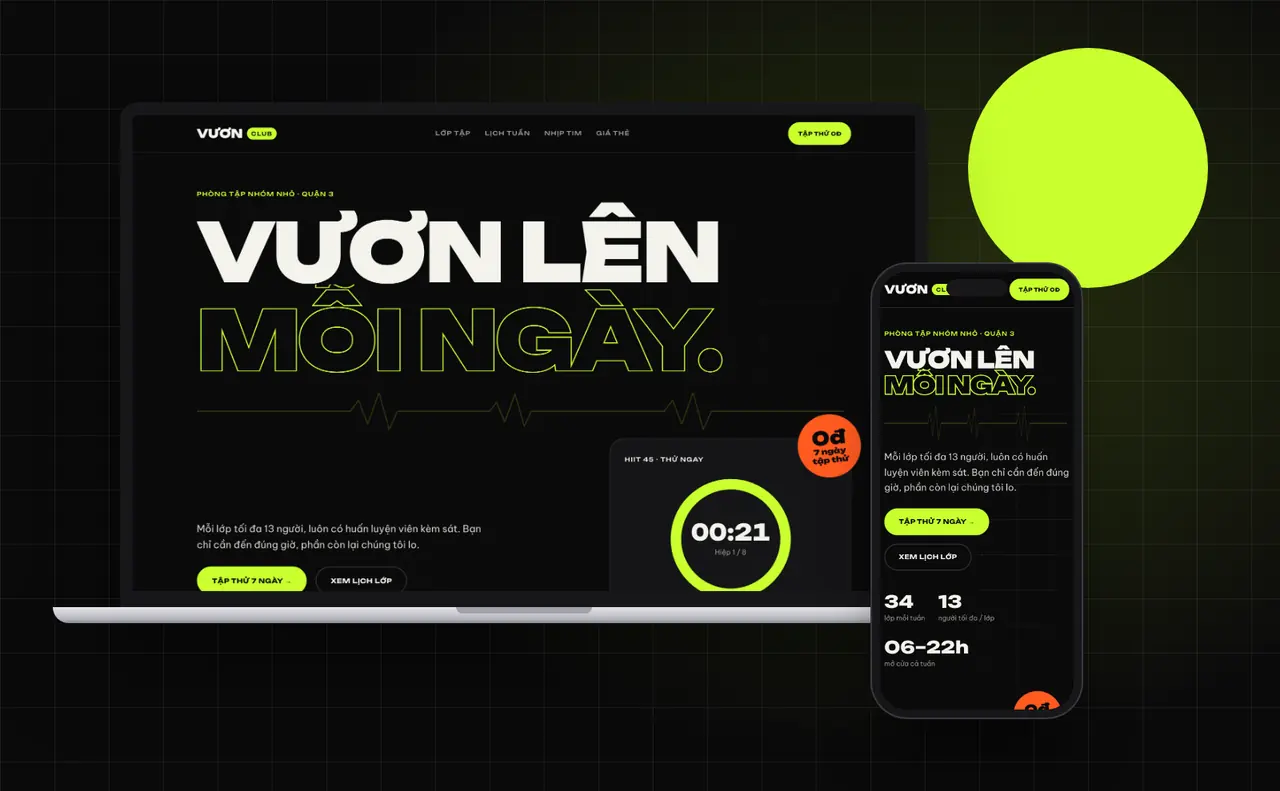
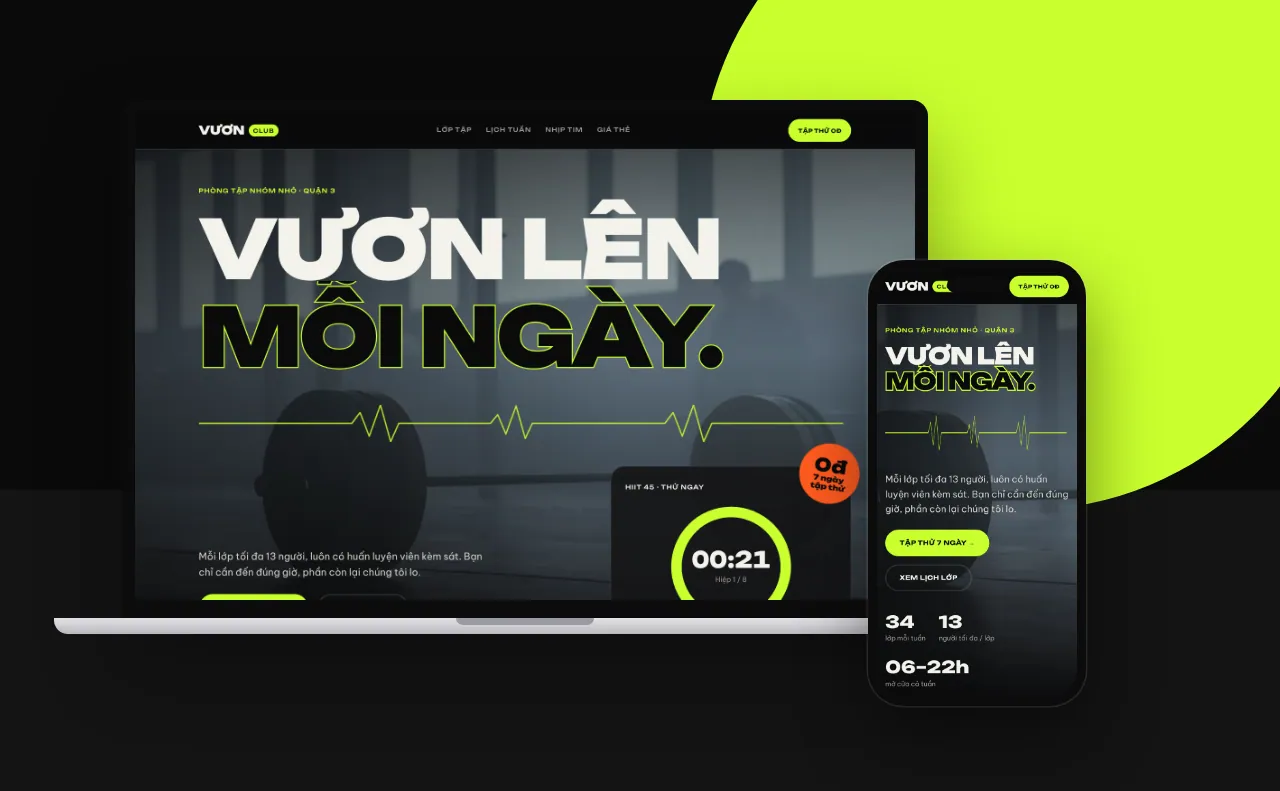
Landing VƯƠN Club: ảnh phòng tập thật, hero đập nhịp, cảnh ghim 7 ngày wipe chéo, dải ảnh khu tập
Claude-Session: https://claude.ai/code/session_012QLWn7rvRysGvRwdv6upwG

diff --git a/demos/vuon-club.html b/demos/vuon-club.html
@@ -39,12 +39,19 @@ header .btn{min-height:42px;padding:0 16px;font-size:10px}
 .hero{position:relative;padding:var(--s6) 0 var(--s6);overflow:hidden}
 .hero::before{content:"";position:absolute;inset:0;background-image:linear-gradient(var(--line) 1px,transparent 1px),linear-gradient(90deg,var(--line) 1px,transparent 1px);background-size:68px 68px;mask-image:radial-gradient(80% 80% at 70% 30%,#000 0,transparent 72%);-webkit-mask-image:radial-gradient(80% 80% at 70% 30%,#000 0,transparent 72%);opacity:.6}
 .hero .w{position:relative}
+.hbg{position:absolute;inset:0;overflow:hidden}
+.hbg div{position:absolute;inset:-4%}
+.hbg img{width:100%;height:100%;object-fit:cover;object-position:50% 30%;animation:kb 21s cubic-bezier(.16,1,.3,1) both}
+@keyframes kb{from{transform:scale(1.16)}}
+.hbg::after{content:"";position:absolute;inset:0;background:linear-gradient(180deg,rgba(10,10,11,.66),rgba(10,10,11,.14) 36%,rgba(10,10,11,.3) 56%,var(--bk) 97%),linear-gradient(90deg,rgba(10,10,11,.55),transparent 62%)}
+.sl{position:absolute;z-index:1;inset:-20% auto -20% 0;width:21%;background:var(--lime);transform:translateX(-160%) skewX(-21deg);animation:sl var(--d5) .16s cubic-bezier(.7,0,.2,1) both}
+@keyframes sl{to{transform:translateX(640%) skewX(-21deg)}}
 .hero h1{font-weight:900;font-size:clamp(40px,11.6vw,150px);line-height:1.08;letter-spacing:-.04em}
 .hero h1 span{display:block;overflow:hidden;padding-top:.14em;margin-top:-.14em}
-.hero h1 i{display:block;font-style:normal;animation:up var(--d5) var(--ease) both}
-.hero h1 span:nth-child(2) i{animation-delay:.1s;color:var(--bk);-webkit-text-stroke:4px var(--lime);paint-order:stroke fill}
-@keyframes up{from{transform:translateY(110%)}}
-.pulse{width:100%;height:68px;margin:var(--s3) 0}
+.hero h1 i{display:block;font-style:normal;transform-origin:0 100%;animation:up var(--d4) .26s var(--ease) both}
+.hero h1 span:nth-child(2) i{animation-delay:.47s;color:var(--bk);-webkit-text-stroke:4px var(--lime);paint-order:stroke fill}
+@keyframes up{from{transform:translateY(112%) scale(1.2)}}
+.pulse{width:100%;height:68px;margin:clamp(26px,5vh,60px) 0}
 .pulse path{fill:none;stroke:var(--lime);stroke-width:2.5;stroke-linejoin:round;stroke-dasharray:1;stroke-dashoffset:1;animation:pl 2.62s linear infinite}
 @keyframes pl{0%{stroke-dashoffset:1}61.8%{stroke-dashoffset:0;opacity:1}100%{stroke-dashoffset:0;opacity:0}}
 .hg{display:grid;grid-template-columns:1.618fr 1fr;gap:var(--s5);align-items:end}
@@ -53,7 +60,7 @@ header .btn{min-height:42px;padding:0 16px;font-size:10px}
 .stats{display:flex;gap:var(--s5);margin-top:var(--s5);flex-wrap:wrap}
 .stats b{font-family:var(--fd);font-weight:800;font-size:33px;line-height:1.1;display:block}.stats span{font-size:13px;color:var(--mid)}
 /* timer */
-.timer{background:var(--g1);border:1px solid var(--line);border-radius:var(--s4);padding:var(--s4);position:relative}
+.timer{background:rgba(21,21,23,.9);border:1px solid var(--line);border-radius:var(--s4);padding:var(--s4);position:relative}
 .timer .top{display:flex;justify-content:space-between;align-items:center;margin-bottom:var(--s3)}
 .ph{padding:4px 12px;border-radius:99px;background:var(--lime);color:var(--bk);transition:background var(--d2)}
 .timer.rest .ph{background:var(--hot)}
@@ -71,13 +78,65 @@ header .btn{min-height:42px;padding:0 16px;font-size:10px}
 .badge{position:absolute;right:-16px;top:-42px;width:110px;height:110px;border-radius:50%;background:var(--hot);color:var(--bk);display:grid;place-content:center;text-align:center;font-family:var(--fd);font-weight:900;font-size:13px;line-height:1.15;transform:rotate(12deg);animation:wob 2.62s ease-in-out infinite alternate}
 .badge b{font-size:33px;display:block;line-height:1}
 @keyframes wob{to{transform:rotate(-6deg) scale(1.06)}}
-@media(max-width:900px){.hero{padding-top:var(--s5)}.hg{grid-template-columns:1fr}.badge{right:16px;top:-68px;width:89px;height:89px;font-size:10px}.badge b{font-size:26px}.timer{margin-top:var(--s6)}.stats{gap:var(--s4)}}
+@media(max-width:900px){.hero{padding-top:var(--s5)}.hg{grid-template-columns:1fr}.badge{right:16px;top:-68px;width:89px;height:89px;font-size:10px}.badge b{font-size:26px}.timer{margin-top:var(--s6)}.stats{gap:var(--s4)}.hbg{bottom:auto;height:min(100%,96vh)}.hbg div{top:-34%}.hbg img{object-position:34% 30%}}
 /* băng chạy */
 .bw{overflow:hidden;padding:var(--s4) 0}
 .band{background:var(--lime);color:var(--bk);overflow:hidden;white-space:nowrap;transform:rotate(-1.6deg) scale(1.03);padding:14px 0}
 .band div{display:inline-block;font-family:var(--fd);font-weight:900;font-size:clamp(20px,3vw,42px);text-transform:uppercase;animation:mq 26s linear infinite}
 .band span{margin:0 16px}
 @keyframes mq{to{transform:translateX(-50%)}}
+/* 7 ngày */
+.d7{padding:var(--s7) 0}
+.d7 .k{color:var(--lime)}
+.dg{display:grid;gap:var(--s5)}
+.dn{display:flex;align-items:baseline;gap:12px;font-family:var(--fd);margin:var(--s3) 0 var(--s2)}
+.dn span{font-weight:500;font-size:11px;letter-spacing:.1em;text-transform:uppercase;color:var(--mid)}
+.dn b{display:inline-block;font-weight:900;font-size:clamp(89px,13vw,178px);line-height:.92;letter-spacing:-.05em;color:var(--lime);font-variant-numeric:tabular-nums;transform-origin:0 100%}
+.dn i{font-style:normal;font-weight:500;font-size:clamp(16px,2vw,26px);color:var(--mid)}
+.bt{animation:bt var(--d3) var(--ease)}
+@keyframes bt{from{transform:scale(1.24) skewX(-9deg)}}
+.d7 h2{font-size:clamp(24px,3.4vw,46px)}.d7 h2 em{font-style:normal;color:var(--lime)}
+.dp{display:grid;grid-template-columns:repeat(7,1fr);gap:6px;max-width:424px;margin:var(--s4) 0 var(--s3)}
+.dp i{height:6px;border-radius:6px;background:var(--g2);overflow:hidden}
+.dp b{display:block;height:100%;background:var(--lime);transform-origin:0 50%}
+.nt{color:var(--mid);font-size:14px;max-width:40ch;margin-bottom:var(--s4)}
+.df{display:grid;grid-template-columns:repeat(4,1fr);gap:var(--s3)}
+.df figure,.rl figure{margin:0;position:relative;overflow:hidden;border-radius:var(--s3);background:var(--g1)}
+.df figure{aspect-ratio:3/4}
+.df img{position:absolute;inset:0;width:100%;height:100%;object-fit:cover}
+.df figcaption{position:absolute;inset:auto 0 0;padding:var(--s6) var(--s3) var(--s3);background:linear-gradient(transparent,rgba(10,10,11,.9));display:grid;gap:4px}
+.df figcaption b{font-family:var(--fd);font-weight:800;font-size:18px;line-height:1.1;text-transform:uppercase}
+.df small{font-size:13px;color:#d0d0c8;line-height:1.45}
+.ws{display:none}
+.mo .d7{height:330vh;height:330svh;padding:0}
+.mo .st{position:sticky;top:68px;height:calc(100vh - 68px);height:calc(100svh - 68px);overflow:hidden;display:flex;align-items:center}
+.mo .dg{grid-template-columns:1fr 1.272fr;gap:var(--s6);align-items:center}
+.mo .df{display:block;position:relative;height:min(76vh,720px);border-radius:var(--s4);overflow:hidden}
+.mo .df figure{position:absolute;inset:0;aspect-ratio:auto;border-radius:0}
+.mo .df img{will-change:transform}
+.mo .df figcaption{padding:var(--s7) var(--s4) var(--s4)}
+.mo .df figcaption b{font-size:clamp(24px,3.2vw,44px)}.mo .df small{font-size:15px}
+.mo .ws{display:block;position:absolute;inset:0;background:var(--lime);opacity:0;pointer-events:none}
+@media(max-width:860px){.d7{padding:var(--s6) 0}.df{grid-template-columns:1fr 1fr}.df figure{aspect-ratio:2/3}
+ .mo .st{align-items:flex-start;padding:var(--s3) 0 0}.mo .dg{grid-template-columns:1fr;gap:var(--s3)}.mo .df{order:-1;height:40vh;height:40svh}
+ .mo .dn{margin:0}.mo .dn b{font-size:76px}.mo .dp{margin:var(--s3) 0 var(--s2)}.mo .nt{margin-bottom:var(--s3)}.mo .d7 .btn{min-height:46px}}
+@media(max-width:860px) and (max-height:660px){.mo .nt{display:none}.mo .df{height:36vh}}
+/* khu tập */
+.rl{display:flex;gap:var(--s3);overflow-x:auto;scroll-snap-type:x mandatory;padding:0 max(16px,4vw);scroll-padding:0 max(16px,4vw);scrollbar-width:none;-webkit-overflow-scrolling:touch}
+.rl::-webkit-scrollbar{display:none}
+.rl.dr{scroll-snap-type:none;cursor:grabbing}
+.rl figure{flex:none;height:clamp(300px,56vh,520px);aspect-ratio:2/3;scroll-snap-align:start}
+.rl figure.l{aspect-ratio:3/2;max-width:86vw}
+.rl img{position:absolute;top:0;left:-8%;width:116%;max-width:none;height:100%;object-fit:cover;-webkit-user-drag:none;user-select:none}
+.rl figcaption{position:absolute;inset:auto 0 0;padding:var(--s6) var(--s3) var(--s3);background:linear-gradient(transparent,rgba(10,10,11,.86));display:flex;align-items:baseline;gap:10px;font-family:var(--fd);font-weight:700;font-size:15px;text-transform:uppercase}
+.rl figcaption span{color:var(--lime);font-weight:500;font-size:11px}
+.mo .rl figure{clip-path:polygon(0 0,0 0,-34% 100%,0 100%);transition:clip-path var(--d5) var(--ease);transition-delay:calc(var(--i)*110ms)}
+.mo .rl.in figure{clip-path:polygon(0 0,134% 0,100% 100%,0 100%)}
+.rc{display:flex;align-items:center;gap:var(--s3);margin-top:var(--s4)}
+.rp{flex:1;height:2px;background:var(--line);overflow:hidden}.rp i{display:block;height:100%;background:var(--lime);transform:scaleX(.2);transform-origin:0 50%}
+.rc .k{color:var(--mid);font-variant-numeric:tabular-nums}
+.rc button{width:48px;height:48px;border-radius:50%;border:1px solid var(--line);background:none;font-size:18px;transition:background var(--d2),color var(--d2),border-color var(--d2)}
+.rc button:hover{background:var(--lime);color:var(--bk);border-color:var(--lime)}
 .sec{padding:var(--s7) 0}
 .sh{display:grid;grid-template-columns:1.618fr 1fr;gap:var(--s5);align-items:end;margin-bottom:var(--s6)}
 .sh h2{font-size:clamp(28px,5.2vw,68px)}.sh h2 em{font-style:normal;color:var(--lime)}.sh p{color:var(--mid)}
@@ -157,7 +216,7 @@ footer{padding:var(--s6) 0 var(--s7);overflow:hidden}
 .fr{display:flex;flex-wrap:wrap;gap:16px 42px;justify-content:space-between;font-size:13px;color:var(--mid);border-top:1px solid var(--line);padding-top:16px}
 .back{position:fixed;left:16px;bottom:16px;z-index:40;background:var(--ink);color:var(--bk);border-radius:99px;padding:0 16px;min-height:42px;display:flex;align-items:center;gap:8px;font-family:var(--fd);font-weight:600;font-size:10px;letter-spacing:.04em}
 .emb .back{display:none}
-@media(prefers-reduced-motion:reduce){*,*::before,*::after{animation:none!important;transition-duration:.01ms!important}.js [data-r]{opacity:1;transform:none}.pulse path{stroke-dashoffset:0}}
+@media(prefers-reduced-motion:reduce){*,*::before,*::after{animation:none!important;transition-duration:.01ms!important}.js [data-r]{opacity:1;transform:none}.pulse path{stroke-dashoffset:0}.sl{display:none}}
 </style>
 </head>
 <body>
@@ -168,7 +227,7 @@ footer{padding:var(--s6) 0 var(--s7);overflow:hidden}
 </div></header>
 
 <main id="top">
-<section class="hero"><div class="w">
+<section class="hero"><div class="hbg"><div id="hp"><img src="../img/photo/phong-tap-6389516.webp" width="2400" height="1600" alt="Thanh tạ đòn nằm trên sàn phòng tập mờ sương, sau lưng là dãy cửa sổ lớn" fetchpriority="high" decoding="async"></div><i class="sl"></i></div><div class="w">
  <p class="k" style="color:var(--lime);margin-bottom:16px">Phòng tập nhóm nhỏ · Quận 3</p>
  <h1><span><i>Vươn lên</i></span><span><i>mỗi ngày.</i></span></h1>
  <svg class="pulse" viewBox="0 0 1280 68" preserveAspectRatio="none" aria-hidden="true"><path pathLength="1" d="M0 34h300l16-20 18 44 22-58 20 68 16-34h180l14-16 16 36 20-52 18 60 14-28h260l16-20 18 44 22-58 20 68 16-34h258"/></svg>
@@ -176,7 +235,7 @@ footer{padding:var(--s6) 0 var(--s7);overflow:hidden}
   <div>
    <p class="l">Mỗi lớp tối đa 13 người, luôn có huấn luyện viên kèm sát. Bạn chỉ cần đến đúng giờ, phần còn lại chúng tôi lo.</p>
    <div class="cta"><a class="btn" href="#tap-thu">Tập thử 7 ngày →</a><a class="btn o" href="#lich">Xem lịch lớp</a></div>
-   <div class="stats"><div><b>34</b><span>lớp mỗi tuần</span></div><div><b>13</b><span>người tối đa / lớp</span></div><div><b>06–22h</b><span>mở cửa cả tuần</span></div></div>
+   <div class="stats"><div><b data-n>34</b><span>lớp mỗi tuần</span></div><div><b data-n>13</b><span>người tối đa / lớp</span></div><div><b>06–22h</b><span>mở cửa cả tuần</span></div></div>
   </div>
   <div class="timer" id="tm" aria-label="Đồng hồ tập ngắt quãng">
    <div class="badge"><b>0đ</b>7 ngày<br>tập thử</div>
@@ -189,10 +248,40 @@ footer{padding:var(--s6) 0 var(--s7);overflow:hidden}
 
 <div class="bw"><div class="band" aria-hidden="true"><div><span>HIIT 45</span><span>✕</span><span>Sức mạnh</span><span>✕</span><span>Yoga Flow</span><span>✕</span><span>Boxing</span><span>✕</span><span>Không hợp đồng dài</span><span>✕</span><span>HIIT 45</span><span>✕</span><span>Sức mạnh</span><span>✕</span><span>Yoga Flow</span><span>✕</span><span>Boxing</span><span>✕</span><span>Không hợp đồng dài</span><span>✕</span></div></div></div>
 
+<section class="d7" id="bay-ngay" aria-label="Bảy ngày tập thử"><div class="st"><div class="w dg">
+ <div class="dl">
+  <p class="k">Tập thử 0đ · thử đủ bốn kiểu lớp</p>
+  <div class="dn" aria-hidden="true"><span>Ngày</span><b id="dn">07</b><i>/ 07</i></div>
+  <h2>7 ngày để<br><em>bắt đúng nhịp.</em></h2>
+  <div class="dp" aria-hidden="true"><i><b></b></i><i><b></b></i><i><b></b></i><i><b></b></i><i><b></b></i><i><b></b></i><i><b></b></i></div>
+  <p class="nt">Thứ tự chỉ là gợi ý. Trong 7 ngày tập thử, bạn vào lớp nào cũng được.</p>
+  <a class="btn" href="#tap-thu">Giữ chỗ tập thử →</a>
+ </div>
+ <div class="df" id="df">
+  <figure><img src="../img/photo/phong-tap-6389503.webp" width="1400" height="2100" alt="Người tập đạp xe sức bền giữa phòng tập khung thép, ánh sáng mờ sương" loading="lazy" decoding="async"><figcaption><span class="k">Ngày 1–2</span><b>HIIT 45</b><small>Chạy, nhảy, tạ nhẹ theo hiệp ngắn.</small></figcaption></figure>
+  <figure><img src="../img/photo/phong-tap-6389892.webp" width="1400" height="2100" alt="Kệ bóng tạ, tạ tay và bánh tạ xếp sát tường gạch cạnh cửa sổ" loading="lazy" decoding="async"><figcaption><span class="k">Ngày 3–4</span><b>Sức mạnh</b><small>Squat, deadlift, đẩy ngực với tạ đòn.</small></figcaption></figure>
+  <figure><img src="../img/photo/phong-tap-6958065.webp" width="1400" height="2100" alt="Người tập nằm chống tay trên thảm yoga, chụp từ phía sau" loading="lazy" decoding="async"><figcaption><span class="k">Ngày 5</span><b>Yoga Flow</b><small>Giãn cơ, hồi phục sau ngày dài.</small></figcaption></figure>
+  <figure><img src="../img/photo/phong-tap-4753999.webp" width="1400" height="1844" alt="Bao cát treo bằng xích dưới ánh đèn tuýp trong góc boxing" loading="lazy" decoding="async"><figcaption><span class="k">Ngày 6–7</span><b>Boxing</b><small>Đấm bao, di chuyển, phản xạ theo cặp.</small></figcaption></figure>
+  <i class="ws"></i>
+ </div>
+</div></div></section>
+
 <section class="sec" id="lop"><div class="w">
  <div class="sh"><div><p class="k">Bốn kiểu lớp</p><h2 data-r>Chọn lớp theo<br><em>mức năng lượng.</em></h2></div><p data-r>Mới bắt đầu hay tập lâu năm đều có chỗ. Huấn luyện viên chỉnh bài theo thể lực từng người.</p></div>
  <div class="cl" id="cl"></div>
 </div></section>
+
+<section class="sec" id="khu-tap" style="padding-top:0">
+ <div class="w"><div class="sh"><div><p class="k">Không gian tập</p><h2 data-r>Xem trước<br><em>chỗ bạn tập.</em></h2></div><p data-r>Vuốt ngang để xem từng khu. Hai phòng tập nhóm, khu tạ và phòng thay đồ nằm chung một tầng.</p></div></div>
+ <div class="rl" id="rl" tabindex="0" aria-label="Ảnh các khu tập, vuốt ngang để xem thêm">
+  <figure class="l" style="--i:0"><img src="../img/photo/phong-tap-6390225.webp" width="1000" height="667" alt="Phòng tập nhóm rộng với xà treo, vòng treo và bóng tập trước cửa sổ lớn" loading="lazy" decoding="async" draggable="false"><figcaption><span>01</span>Sàn tập nhóm</figcaption></figure>
+  <figure style="--i:1"><img src="../img/photo/phong-tap-6389891.webp" width="760" height="1140" alt="Bánh tạ đòn trên sàn cao su trong làn sương mờ" loading="lazy" decoding="async" draggable="false"><figcaption><span>02</span>Khu tạ đòn</figcaption></figure>
+  <figure style="--i:2"><img src="../img/photo/phong-tap-6389856.webp" width="760" height="1140" alt="Bó thanh đòn dựng đứng trong giá cạnh khung tập" loading="lazy" decoding="async" draggable="false"><figcaption><span>03</span>Giá thanh đòn</figcaption></figure>
+  <figure class="l" style="--i:3"><img src="../img/photo/phong-tap-6389893.webp" width="1000" height="667" alt="Hai quả tạ tay lục giác đặt trên sàn trước mũi giày người tập" loading="lazy" decoding="async" draggable="false"><figcaption><span>04</span>Góc tạ tay</figcaption></figure>
+  <figure class="l" style="--i:4"><img src="../img/photo/phong-tap-6390241.webp" width="1000" height="667" alt="Người tập đi giữa hai dãy tủ đồ trong phòng thay đồ, chụp từ phía sau" loading="lazy" decoding="async" draggable="false"><figcaption><span>05</span>Phòng thay đồ</figcaption></figure>
+ </div>
+ <div class="w"><div class="rc"><div class="rp"><i id="rpi"></i></div><span class="k" id="rn">01 / 05</span><button id="rpv" aria-label="Ảnh trước">←</button><button id="rnx" aria-label="Ảnh sau">→</button></div></div>
+</section>
 
 <section class="sec sch" id="lich"><div class="w">
  <div class="sh"><div><p class="k">Lịch tuần này</p><h2 data-r>Giờ nào cũng<br><em>có lớp.</em></h2></div><p data-r>Lọc theo kiểu lớp để tìm khung giờ hợp với bạn. Đặt chỗ trước 2 tiếng.</p></div>
@@ -221,14 +310,15 @@ footer{padding:var(--s6) 0 var(--s7);overflow:hidden}
  </div>
 </div></section>
 </main>
-<footer><div class="big" aria-hidden="true">VƯƠN</div><div class="w"><div class="fr"><span>VƯƠN Club là thương hiệu concept. Landing page mẫu do <a href="../index.html" target="_top" style="text-decoration:underline;color:var(--ink)">Dream Labs</a> thiết kế, mọi thông tin chỉ để minh họa.</span><span>hello@vuonclub.example · 0900 000 000</span></div></div></footer>
+<footer><div class="big" aria-hidden="true">VƯƠN</div><div class="w"><div class="fr"><span>VƯƠN Club là thương hiệu concept. Landing page mẫu do <a href="../index.html" target="_top" style="text-decoration:underline;color:var(--ink)">Dream Labs</a> thiết kế, mọi thông tin chỉ để minh họa, ảnh chụp lấy từ thư viện Pexels để minh họa không khí.</span><span>hello@vuonclub.example · 0900 000 000</span></div></div></footer>
 <a class="back" href="../index.html">← DREAM LABS</a>
 
 <script>
 (()=>{
 document.documentElement.classList.add('js');if(parent!==window)document.documentElement.classList.add('emb');
 const $=(s,r=document)=>r.querySelector(s),$$=(s,r=document)=>[...r.querySelectorAll(s)];
-const RM=matchMedia('(prefers-reduced-motion: reduce)').matches;
+const RM=matchMedia('(prefers-reduced-motion: reduce)').matches,MO=!RM&&'IntersectionObserver' in window,cl=(v,a=0,b=1)=>v<a?a:v>b?b:v;
+if(MO)document.documentElement.classList.add('mo');
 /* đồng hồ ngắt quãng: 21 giây tập / 13 giây nghỉ × 8 hiệp */
 const T={w:21,r:13,n:8};let ph=0,rd=1,left=T.w,run=false,iv=null,last=0;
 const tm=$('#tm'),draw=()=>{const tot=ph?T.r:T.w;$('#tt').textContent='00:'+String(Math.ceil(left)).padStart(2,'0');$('#tr').style.strokeDashoffset=(1-left/tot).toFixed(3);$('#tp').textContent=ph?'Nghỉ':'Tập';$('#ts').textContent='Hiệp '+rd+' / '+T.n;tm.classList.toggle('rest',!!ph)};
@@ -263,6 +353,41 @@ $('#tg').addEventListener('click',e=>{const b=e.target.closest('button');if(!b)r
 $('#jf').addEventListener('submit',e=>{e.preventDefault();const ok=$$('#jf .fld').every(f=>f.value.trim());$('#jm').textContent=ok?'Cảm ơn bạn. Đây là trang mẫu nên chưa có chỗ nào được giữ.':'Bạn điền giúp tên và số điện thoại nhé.'});
 const els=$$('[data-r]');
 if('IntersectionObserver' in window){const io=new IntersectionObserver(es=>es.forEach(e=>{if(e.isIntersecting){e.target.classList.add('in');io.unobserve(e.target)}}),{threshold:.1,rootMargin:'0px 0px -6% 0px'});els.forEach(el=>io.observe(el))}else els.forEach(el=>el.classList.add('in'));
+/* khu tập: vuốt snap, kéo chuột, ảnh trượt lệch nhịp */
+const rl=$('#rl'),rf=$$('#rl figure');let rq=0;
+const rlU=()=>{rq=0;const mx=rl.scrollWidth-rl.clientWidth,c=rl.clientWidth/2,x0=rl.getBoundingClientRect().left;let n=0,bd=1e9;
+ rf.forEach((g,i)=>{const r=g.getBoundingClientRect(),d=Math.abs(r.left-x0-parseFloat(getComputedStyle(rl).paddingLeft));if(d<bd){bd=d;n=i}
+  if(MO)g.firstChild.style.transform=`translateX(${(cl((r.left+r.width/2-x0-c)/rl.clientWidth,-1,1)*-6.5).toFixed(2)}%)`});
+ if(mx>0&&rl.scrollLeft>mx-4)n=rf.length-1;
+ $('#rpi').style.transform=`scaleX(${(.2+.8*(mx>0?rl.scrollLeft/mx:1)).toFixed(3)})`;$('#rn').textContent='0'+(n+1)+' / 0'+rf.length;rl._n=n};
+const rlK=()=>{rq=rq||requestAnimationFrame(rlU)};rl.addEventListener('scroll',rlK,{passive:true});addEventListener('resize',rlK);rlU();
+const rlG=d=>{const g=rf[cl(rl._n+d,0,rf.length-1)];rl.scrollTo({left:g.offsetLeft-rf[0].offsetLeft,behavior:RM?'auto':'smooth'})};
+$('#rpv').onclick=()=>rlG(-1);$('#rnx').onclick=()=>rlG(1);
+let dx=null;rl.addEventListener('pointerdown',e=>{if(e.pointerType==='mouse'&&!e.button){dx=e.clientX;rl.classList.add('dr')}});
+addEventListener('pointermove',e=>{if(dx!==null){rl.scrollLeft-=e.clientX-dx;dx=e.clientX}});
+addEventListener('pointerup',()=>{if(dx!==null){dx=null;rl.classList.remove('dr');rlG(0)}});
+if(MO){
+ new IntersectionObserver((es,o)=>es.forEach(e=>{if(e.isIntersecting){rl.classList.add('in');o.disconnect()}}),{threshold:.25}).observe(rl);
+ /* số đếm hero */
+ $$('[data-n]').forEach(b=>{const to=+b.textContent,t0=performance.now()+500,f=t=>{const u=cl((t-t0)/1110),e=1-Math.pow(1-u,4);b.textContent=Math.round(to*e);u<1&&requestAnimationFrame(f)};b.textContent=0;requestAnimationFrame(f)});
+ /* 7 ngày: ghim, đổi ảnh bằng vát chéo, đếm ngày theo cuộn */
+ const d7=$('#bay-ngay'),st=$('.st'),fg=$$('#df figure'),ws=$('.ws'),dn=$('#dn'),sg=$$('.dp b'),CUT=[2/7,4/7,5/7],W=.085;let tp=0,cp=-1,day=-1,rf7=0,on=false;
+ const ez=t=>t<.5?4*t*t*t:1-Math.pow(-2*t+2,3)/2;
+ const draw7=()=>{rf7=0;cp=cp<0?tp:cp+(tp-cp)*.16;if(Math.abs(tp-cp)<.0004)cp=tp;const q=cl(cp*1.09),d=Math.min(6,Math.floor(q*7));let sl=0;
+  CUT.forEach((c,k)=>{const r=cl((q-c+W)/W),t=ez(r),a=100-t*134,b=a+34;fg[k+1].style.clipPath=`polygon(${a}% 0,100% 0,100% 100%,${b}% 100%)`;
+   if(r>0&&r<1){sl=1;ws.style.clipPath=`polygon(${a-5}% 0,${a+.4}% 0,${b+.4}% 100%,${b-5}% 100%)`}});
+  ws.style.opacity=sl;fg.forEach((g,i)=>{g.firstChild.style.transform=`scale(${(1.14-.12*cl(q*1.6-i*.3)).toFixed(4)})`});
+  sg.forEach((s,i)=>{s.style.transform=`scaleX(${cl(q*7-i).toFixed(3)})`});
+  if(d!==day){day=d;dn.textContent='0'+(d+1);dn.classList.remove('bt');void dn.offsetWidth;dn.classList.add('bt')}
+  if(cp!==tp&&on)rf7=requestAnimationFrame(draw7)};
+ const sc7=()=>{const r=d7.getBoundingClientRect();tp=cl((68-r.top)/(r.height-st.offsetHeight));if(on&&!rf7)rf7=requestAnimationFrame(draw7)};
+ new IntersectionObserver(es=>{on=es[0].isIntersecting;on&&sc7()}).observe(d7);addEventListener('scroll',sc7,{passive:true});addEventListener('resize',sc7);sc7();draw7();
+ /* hero: ảnh trôi nhẹ theo chuột */
+ if(matchMedia('(hover:hover) and (pointer:fine)').matches){const hp=$('#hp'),he=$('.hero');let mx=0,my=0,cx=0,cy=0,hr=0,hv=true;
+  const hf=()=>{cx+=(mx-cx)*.07;cy+=(my-cy)*.07;hp.style.transform=`translate3d(${(cx*-18).toFixed(2)}px,${(cy*-12).toFixed(2)}px,0)`;hr=Math.abs(mx-cx)+Math.abs(my-cy)>.002&&hv?requestAnimationFrame(hf):0};
+  he.addEventListener('pointermove',e=>{mx=e.clientX/innerWidth-.5;my=e.clientY/innerHeight-.5;hr=hr||requestAnimationFrame(hf)});
+  new IntersectionObserver(es=>{hv=es[0].isIntersecting}).observe(he)}
+}
 try{parent!==window&&parent.postMessage({wkDemo:'vuon-club'},'*')}catch(e){}
 })();
 </script>
